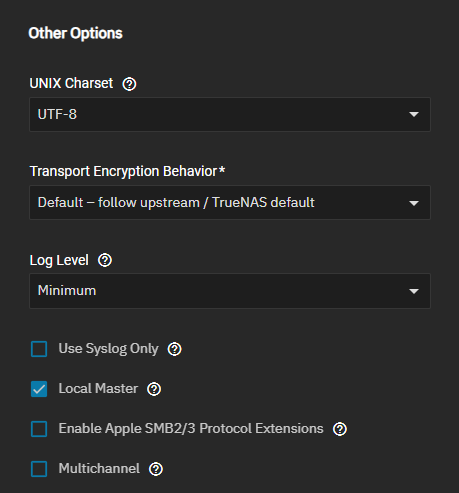
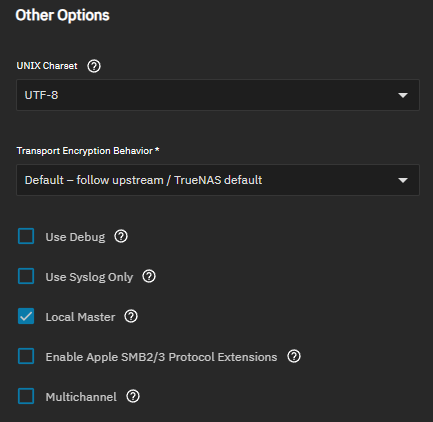
PD-2442 / 26.04 / Pd 2442 smb share purpose apple m e master (#4345)
* Update _index.md

* Create Apple-M-E.md

* Update SMBSharesScreens.md

* Update SMBServicesScreen.md

* Create AppleMENameManglingWarning.md

* Update TimeMachineMultiprotocol.md

* Update _index.md

* Update Apple-M-E.md

* Update SMBSharesScreens.md

* Update Apple-M-E.md

* Update SMBServicesScreen.md

* Update SMBServiceAdvanced1.png

* Update SMBServiceAdvanced2.png

* Create SMBServiceAppleExtensions.png

* Update Apple-M-E.md

* Update AppleMENameManglingWarning.md

* Update Apple-M-E.md

* Create AddSMBMacOSMediaAdvancedOptions.png

* Create AddSMBMacOSMediaBasic.png

* Update Apple-M-E.md

* Update SMBSharesScreens.md

* Create MacOSEnableExt.png

* apply suggestions from review

---------

(cherry picked from commit 1a8b3d3f5e862d301d834984fe008c7f5e685d04)

diff --git a/content/SCALEUIReference/Shares/SMBSharesScreens.md b/content/SCALEUIReference/Shares/SMBSharesScreens.md
@@ -87,7 +87,9 @@ It opens the [**Create Dataset**](#create-dataset) dialog.
 
 **Save** creates the share (or saves an existing one) and adds it to the **Windows (SMB) Shares** widget and the **SMB** table on the **SMB** screen.
 
-**Enable Now** shows on both the Add SMB and Edit SMB screens after selecting the **Time Machine Share** option in **Purpose** if the **Enable SMB2/3 Protocol** option is not already enabled on the **Advanced Options** of the [**SMB** service screen]({{< ref "SMBServicesScreen.md" >}}).
+**Enable Now** appears on both the Add SMB and Edit SMB screens after selecting the **Time Machine Share** option in **Purpose** if the **Enable SMB2/3 Protocol** option is not already enabled in the **Advanced Options** section of the [**SMB** service screen]({{< ref "SMBServicesScreen.md" >}}).
+
+**Enable Now** also appears on both the Add SMB and Edit SMB screens after selecting the **MacOS Media Share** option in **Purpose** if the **Enable Apple SMB2/3 Protocol Extensions** option is not already enabled in the **Advanced Options** section of the [**SMB** service screen]({{< ref "SMBServicesScreen.md" >}}). When this requirement is not met, an inline requirement error message appears below the **Purpose** field stating: *This parameter requires Apple SMB2/3 protocol extension support to be enabled in SMB service.* Click **Enable Now** to enable the required setting. The service updates automatically.
 
 ### Basic Settings
 
@@ -103,7 +105,7 @@ The **Basic Options** settings show by default on the **Add** and **Edit SMB** s
 | **Path** | Specifies the mount path for the share. It includes a blank field and a file browser field directly below it. The blank field allows text entry of a share mount path or allows Truenas to populate it with the path to the dataset selected in the file browser field. The file browser allows selecting the mount path to the share dataset on the local file system that TrueNAS exports over the SMB protocol. The <span class="material-icons">arrow_right</span> icon to the left of <svg xmlns="http://www.w3.org/2000/svg" width="1em" height="1em" viewBox="0 0 24 24"><path fill="currentColor" d="M5 21L3 9h18l-2 12zm5-6h4q.425 0 .713-.288T15 14t-.288-.712T14 13h-4q-.425 0-.712.288T9 14t.288.713T10 15M6 8q-.425 0-.712-.288T5 7t.288-.712T6 6h12q.425 0 .713.288T19 7t-.288.713T18 8zm2-3q-.425 0-.712-.288T7 4t.288-.712T8 3h8q.425 0 .713.288T17 4t-.288.713T16 5z"/></svg> expands the dataset directory tree. Root datasets do not show and cannot be selected for shares unless the share existed prior to upgrading to 25.10 or later releases. |
 | **Create Dataset** | Creates a dataset for a share while configuring the share. Inactive until the parent dataset is selected. It opens the [**Create Dataset**](#create-dataset) dialog, where you enter a name for a new dataset. The dataset name becomes the SMB share name. **Create** adds the dataset and populates **Name** field on the **Add SMB** screen. |
 | **Name** | Sets the name for the share. This text entry field accepts manual entry or copy/paste of a name for the share that does not exceed 80 characters. A name must not exceed 80 characters because of how the SMB protocol uses the name. A name cannot have invalid characters as specified in Microsoft documentation MS-FSCC section 2.1.6. <br>**Name** is automatically populated with the name of the dataset when you use **Create Dataset**. If not supplied, the share name becomes the last component of the path. This forms part of the full share path name when SMB clients perform and SMB tree connect. <br>If changing the name, follow the naming conventions for [files and directories](https://learn.microsoft.com/en-us/windows/win32/fileio/naming-a-file#naming-conventions) or [share names](https://learn.microsoft.com/en-us/openspecs/windows_protocols/ms-fscc/dc9978d7-6299-4c5a-a22d-a039cdc716ea). |
-| **Purpose** | Sets the share type to one selected on the dropdown list. Options are: <br><li>**Default Share** -  <br><li>**Time Machine Share** - <br><li>**Multi-Protocol Share** - The SMB share is configured for multi-protocol (SMB and NFS) access. Set this if the path is shared through NFS, FTP, or used by containers or apps. Note: This setting can reduce SMB share performance because it turns off some SMB features for safer interoperability with external processes.<br><li>**Time Locked Share** - The SMB share makes files read-only through the SMB protocol after the set grace period ends. <br>**WARNINGS**: This setting does not work if the path is accessed locally or if another SMB share without the **Time Locked Share** purpose uses the same path.<br>This setting might not meet regulatory requirements for write-once storage.<br><li>**Private Datasets Share** - This server uses the specified dataset_naming_schema in options to make a new ZFS dataset when the client connects. The server uses this dataset as the share path during the SMB session.<br><li>**External Share** - The SMB share is a DFS proxy to a share hosted on an external SMB server.</li> The selected option applies predetermined settings and changes the settings shown in [**Other Options**](#other-options-settings) when showing advanced options. |
+| **Purpose** | Sets the share type to one selected on the dropdown list. Options are: <br><li>**Default Share** - The SMB share uses standard configuration with default settings suitable for general-purpose file sharing. This is the recommended option when you do not need specialized share functionality. <br><li>**Time Machine Share** - The SMB share is optimized for Apple Time Machine backups. This option configures the share to serve as a backup destination for macOS devices. It requires SMB2/3 protocol support enabled in the SMB service configuration. <br><li>**MacOS Media Share** - Available in TrueNAS 25.10.1 and later. The SMB share is optimized for Apple media and entertainment workflows (Final Cut Pro, Logic Pro, Motion, Compressor). This option requires Apple SMB2/3 protocol extensions enabled in the SMB service configuration and forcibly enables Apple name mangling for proper media file handling. **Warning**: Name mangling can cause unexpected behavior for existing data written without this feature enabled. See [Setting Up Apple M&E SMB Shares]({{< ref "Apple-M-E.md" >}}) for details.<br><li>**Multi-Protocol Share** - The SMB share is configured for multi-protocol (SMB and NFS) access. Set this if the path is shared through NFS, FTP, or used by containers or apps. Note: This setting can reduce SMB share performance because it turns off some SMB features for safer interoperability with external processes.<br><li>**Time Locked Share** - The SMB share makes files read-only through the SMB protocol after the set grace period ends. <br>**WARNINGS**: This setting does not work if the path is accessed locally or if another SMB share without the **Time Locked Share** purpose uses the same path.<br>This setting might not meet regulatory requirements for write-once storage.<br><li>**Private Datasets Share** - The server creates a new ZFS dataset for each user when the client connects, using the specified dataset naming schema in options. The server uses this dataset as the share path during the SMB session. This provides isolated storage spaces for individual users.<br><li>**External Share** - The SMB share is a DFS proxy to a share hosted on an external SMB server. Use this option to redirect users to shares on other servers.</li> The selected option applies predetermined settings and changes the settings shown in [**Other Options**](#other-options-settings) when showing advanced options. |
 | **Remote Path** | Sets the path to a remote server and share. Each server entry must include a full domain name or IP address and the share name. Separate the server and share name with the `\` characters. Example: *192.168.0.200\SHARE*. This text entry field accepts copy/paste of a path to the external server and share. Shows when **Purpose** is set to **External Share**. |
 | **Description** | A text-entry field for a brief description or notes about how this share is used. The description entered shows in the **Description** column on the **Windows (SMB) Shares** widget on the **Shares** dashboard and the **SMB** table on the **SMB** screen. |
 | **Enabled** | A toggle that shows the status of the share and allows enabling or disabling the share. This does not enable or disable the SMB service. **Enabled** is the default setting. |
@@ -136,7 +138,7 @@ This behavior is enabled by default and matches FreeBSD behavior.
 | Setting | Description |
 |---------|-------------|
 | **Export Read-Only** | Prohibits writes to the share when enabled. |
-| **Browsable to Network Clients** | Determines whether this share name is included when browsing shares when enabled. This is enabled by default. Private dataset shares (the replacement for home shares) are only visible to the owner, regardless of this setting. |
+| **Browsable to Network Clients** | Determines whether this share name is included when browsing shares. Enabled by default. Private dataset shares (the replacement for home shares) are only visible to the owner, regardless of this setting. |
 | **Access Based Share Enumeration** | Restricts share visibility to users with read or write access to the share. This setting applies to datasets with a POSIX ACL type. For datasets with NFSv4 ACL type, access-based enumeration is automatically enabled and does not allow disabling. See the [smb.conf](https://www.samba.org/samba/docs/current/man-html/smb.conf.5.html) manual page. |
 {{< /truetable >}}
 
@@ -209,6 +211,19 @@ When **Purpose** is set to **Private Dataset Share**, the following settings sho
 | **Use Apple-style Character Encoding** | Implements the default hashing algorithm for NTFS illegal characters that Samba uses. Enabling this option translates NTFS illegal characters to the Unicode private range. When **Purpose** is set to the **Time Machine Share** or **External Share** options, this setting does not show. |
 | **Dataset Naming Schema**  | Sets TrueNAS to require the naming schema used when **Auto Dataset Creation** is enabled. If a schema is not set, the server uses the username if it is not joined to Active Directory. If the server is joined to Active Directory, it uses the domain/username. Only shows when **Purpose** is set to the **Private Dataset Share** option. |
 | **Auto Quota** | Sets the specified ZFS quota in gibibytes (GiB) on new datasets. If the value is zero, TrueNAS disables automatic quotas for the share. Only shows when **Purpose** is set to the **Private Dataset Share** option. |
+{{< /truetable >}}
+{{< /tab >}}
+{{< tab "MacOS Media Share" >}}
+When **Purpose** is set to **MacOS Media Share**, the following settings show in **Other Options**.
+
+{{< trueimage src="/images/SCALE/Shares/AddSMBAdvancedSettingsMacOSMediaShare.png" alt="Other Options - MacOS Media Share" id="Other Options - MacOS Media Share" >}}
+
+{{< include file="/static/includes/MacOSMediaShareCompatibility.md" >}}
+
+{{< truetable >}}
+| Setting | Description |
+|---------|-------------|
+| **Use Apple-style Character Encoding** | Automatically enabled and non-editable for MacOS Media Share. This implements Apple-style character encoding for NTFS illegal characters, which is required for proper operation of Apple media and entertainment applications. This setting cannot be changed for this share purpose because it is essential for compatibility with Final Cut Pro, Logic Pro, and other professional media tools. |
 {{< /truetable >}}
 {{< /tab >}}
 {{< /tabs >}}

diff --git a/content/SCALETutorials/Shares/SMB/Apple-M-E.md b/content/SCALETutorials/Shares/SMB/Apple-M-E.md
@@ -1,0 +1,190 @@
+---
+title: "Setting Up Apple Media and Entertainment SMB Shares"
+description: "Provides instructions for adding an SMB share optimized for Apple media and entertainment workflows including Final Cut Pro and Logic Pro."
+weight: 27
+aliases:
+tags:
+- smb
+- apple
+- shares
+- media
+---
+
+{{< include file="/static/includes/RootLevelDatasetShareWarning.md" >}}
+
+{{< include file="/static/includes/MacOSMediaShareCompatibility.md" >}}
+
+## About Apple Media and Entertainment Shares
+
+{{< hint type=note >}}
+The **MacOS Media Share** purpose is available in TrueNAS 25.10.1 and later.
+{{< /hint >}}
+
+TrueNAS provides the **MacOS Media Share** purpose for professional media production workflows.
+This share type automatically enables **Use Apple-style Character Encoding** to translate NTFS illegal characters for proper file handling in Apple media and entertainment applications like Final Cut Pro, Logic Pro, Motion, and Compressor.
+
+Apple-style character encoding ensures that special characters and metadata are preserved correctly, which is essential when working with media files that have complex naming conventions.
+
+## Prerequisites
+
+Before setting up a **MacOS Media Share**:
+
+* [Create user accounts]({{< ref "ManageUsers" >}}) for media users who access the share.
+   Go to **Credentials > Local Users** and click **Add**.
+   Ensure **Samba Authentication** is selected for each user.
+
+* Prepare a dataset for the share (or you can create one during share creation).
+   For best performance with large media files, consider:
+  * Enabling compression (LZ4 is recommended for media files).
+  * Setting appropriate record size (128K or larger for video files).
+  * Configuring adequate space quotas.
+
+* Turn on **Enable Apple SMB2/3 Protocol Extensions** for the SMB service (instructions below).
+
+## Setting Up a MacOS Media Share
+
+To set up a macOS media share, complete the following steps in order:
+
+1. [Enable Apple SMB2/3 Protocol Extensions](#enable-apple-smb23-protocol-extensions)
+2. [Create the Share and Dataset](#create-the-share-and-dataset)
+3. [Configure Advanced Options](#configure-advanced-options) (optional)
+4. [Configure Dataset Permissions](#configure-dataset-permissions)
+5. [Start the SMB Service and Mount the Share](#start-the-smb-service-and-mount-the-share)
+6. [Connect from Mac Client](#connect-from-mac-client)
+
+### Enable Apple SMB2/3 Protocol Extensions
+
+Enable this service setting before creating the share.
+
+1. Go to **Shares** and click <span class="iconify" data-icon="mdi:dots-vertical"></span> on the **Windows (SMB) Shares** widget header.
+
+2. Select **Config Service** to open the **SMB Service** screen.
+
+   Alternatively, go to **System > Services**, locate **SMB**, and click the <i class="material-icons" aria-hidden="true" title="Configure">edit</i> configure button.
+
+3. Click **Advanced Settings** to expand advanced options.
+
+4. Select **Enable Apple SMB2/3 Protocol Extensions**.
+
+   {{< trueimage src="/images/SCALE/SystemSettings/SMBServiceAppleExtensions.png" alt="Enable Apple SMB2/3 Extensions" id="Enable Apple SMB2/3 Extensions" >}}
+
+5. Click **Save**.
+
+6. If the SMB service is already running, restart it for the changes to take effect.
+
+### Create the Share and Dataset
+
+You can either create the dataset first using the **Datasets** screen and then add the share, or create both together.
+This tutorial uses the **Add SMB** screen to create both the dataset and share at the same time.
+
+1. Go to **Shares** and click **Add** on the **Windows (SMB) Shares** widget.
+
+2. In the **Path** field, browse to the parent dataset where you want to create the share dataset.
+
+   {{< include file="/static/includes/FileExplorerFolderIcons.md" >}}
+
+3. Click **Create Dataset**.
+
+4. Enter a name for the dataset (e.g., *AppleMediaShare* or *FCPProjects*) and click **Create**.
+
+   The dataset name populates the **Name** field and becomes the share name.
+
+   {{< trueimage src="/images/SCALE/Shares/AddSMBMacOSMediaBasic.png" alt="Add MacOS Media Share - Basic Options" id="Add MacOS Media Share - Basic Options" >}}
+
+5. Select **MacOS Media Share** from the **Purpose** dropdown.
+
+6. (Optional) Enter a description such as *Final Cut Pro project storage* to identify the share's purpose.
+
+7. Ensure **Enabled** is selected to activate the share when the SMB service is running.
+
+8. If Apple SMB2/3 Protocol Extensions are not enabled, a requirement error appears below the **Purpose** field.
+
+   {{< trueimage src="/images/SCALE/Shares/MacOSEnableExt.png" alt="MacOS Media Share Extension Required" id="MacOS Media Share Extension Required" >}}
+
+   Click **Enable Now** to enable the required setting in the SMB service configuration. Wait for the service to update.
+   When complete, TrueNAS displays a success message confirming Apple SMB2/3 protocol extension support is enabled.
+
+### Configure Advanced Options
+
+While creating a basic **MacOS Media Share** requires no additional configuration, you can customize access and logging settings.
+
+1. Click **Advanced Options** to expand additional settings.
+
+2. Configure **Access** settings as needed:
+   * **Export Read-Only**: Leave unselected to allow media file editing.
+   * **Browsable to Network Clients**: Enabled by default (recommended).
+   * **Access Based Share Enumeration**: Select to enable if needed for your access control requirements.
+
+   {{< trueimage src="/images/SCALE/Shares/AddSMBMacOSMediaAdvancedOptions.png" alt="MacOS Media Share - Advanced Options" id="MacOS Media Share - Advanced Options" >}}
+
+3. Optionally enable **Audit Logging**:
+   * Select **Enable Logging** to track share access.
+   * Configure **Watch List** and **Ignore List** as needed for monitoring specific users or groups.
+
+4. Note that **Use Apple-style Character Encoding** is automatically enabled under **Other Options** and cannot be disabled.
+   This setting is enforced because Apple character encoding is required for proper operation of Apple media and entertainment applications.
+
+5. Click **Save** to create the share.
+
+### Configure Dataset Permissions
+
+After creating the share, configure dataset permissions to grant access to media users.
+
+1. On the **Shares** screen, locate the new share in the **Windows (SMB) Shares** widget.
+
+2. Click <span class="iconify" data-icon="mdi:dots-vertical"></span> and select **Edit Filesystem ACL**.
+
+3. Configure ACL entries for users or groups who need access:
+   * For individual users: Add ACL entries with appropriate permissions (FULL for editors, READ for reviewers).
+   * For groups: Create a group like *media_users* and add users, then add a group ACL entry.
+
+4. Click **Save Access Control List**.
+
+See [Managing SMB Shares]({{< ref "ManageSMBShares.md" >}}) for detailed information on configuring ACL permissions.
+
+### Start the SMB Service and Mount the Share
+
+If the SMB service is not running, start it from the **Windows (SMB) Shares** widget:
+
+1. Click <span class="iconify" data-icon="mdi:dots-vertical"></span> on the widget header.
+2. Select **Turn On Service**.
+
+### Connect from Mac Client
+
+On the Mac client, connect to the share:
+
+1. Open **Finder**.
+2. Select **Go > Connect to Server** (or press Cmd+K).
+3. Enter the SMB address: {{< cli >}}smb://*your-truenas-ip*/*share-name*{{< /cli >}}.
+4. Authenticate with a user account that has access to the share.
+
+The share is now available for use with Final Cut Pro, Logic Pro, and other Apple media and entertainment applications.
+
+## Testing and Verification
+
+After mounting the share, verify proper operation:
+
+* File Creation: Create test files from Final Cut Pro or Logic Pro to verify proper file handling.
+
+* Character Handling: Test filenames with special characters to confirm Apple character encoding is working correctly.
+
+* Performance: Copy large media files to verify adequate transfer speeds for your workflow.
+
+* Permissions: Test access with different user accounts to verify ACL configuration.
+
+## Migrating Existing Media Libraries
+
+{{< hint type=warning title="Migration Considerations" >}}
+If you are migrating an existing media library from a standard SMB share to a **MacOS Media Share**, be aware that enabling Apple character encoding might affect existing files:
+
+* Files created without Apple character encoding might display differently or have access issues.
+* Existing project files might need to be re-indexed by media applications.
+* Test thoroughly in a non-production environment before migrating production data.
+
+Recommended Migration Approach:
+1. Create a new **MacOS Media Share**.
+2. Copy a subset of files for testing.
+3. Verify all media applications can properly access and edit files.
+   After verifying access, migrate remaining data.
+4. Update media application libraries and project files to point to the new location.
+{{< /hint >}}

diff --git a/content/SCALEUIReference/SystemSettings/Services/SMBServicesScreen.md b/content/SCALEUIReference/SystemSettings/Services/SMBServicesScreen.md
@@ -43,10 +43,10 @@ Click **Save** or **Cancel** to close the configuration screen and return to the
 |---------|-------------|
 | **UNIX Charset** | Select the character set to use internally from the dropdown list of options. **UTF-8** is standard for most systems as it supports all characters in all languages. |
 | **Transport Encryption Behavior** | Select the option for the level of transport encryption to implement. Options and behaviors:<br><li>**Default - follow upstream/TrueNAS default** <br><li>**Negotiate - only encrypt transport if explicitly requested by the SMB client** <br><li>**Desired - encrypt transport if supported by client during session negotiation** <br><li>**Required - always encrypt transport (rejecting access if client does not support encryption - incompatible with SMB1 server `enable_smb1`)** </li>the TrueNAS and Samba default behavior allows SMB clients to negotiate different encryption levels for SMB shares. When set to **Default**, there is no technical limitation preventing an SMB client from negotiating an encrypted session if it is required. **Default** enables negotiating encryption but does not turn on data encryption globally per share. For more information on SMB1 and SMB2 session or per-share encryption, see [Samba Server SMB Encrypt(s)](https://www.samba.org/samba/docs/current/man-html/smb.conf.5.html#SERVERSMBENCRYPT). For more information on using Windows client-side SMB signing, see [Windows SMB Signing Policies](https://learn.microsoft.com/en-us/troubleshoot/windows-server/networking/overview-server-message-block-signing#policy-locations-for-smb-signing). |
-| **Log Level** | Record SMB service messages up to the specified log level from the dropdown list. Options are **None**, **Minimum**, **Normal**, **full** and **Debug**. By default, TrueNAS logs error and warning-level messages. We do not recommend using a log level above **Minimum** for production servers. |
+| **Use Debug** | Select to log more detailed information about SMB. By default, TrueNAS logs error and warning-level messages. We do not recommend enabling debug logging for production servers as it can generate large log files and impact performance. |
 | **Use Syslog Only** | Select to log authentication failures in <file>/var/log/messages</file> instead of the default <file>/var/log/samba4/log.smbd</file>. |
 | **Local Master** | Selected by default and determines if the system participates in a browser election. Leave cleared when the network contains an Active Directory or LDAP server or when Vista or Windows 7 machines are present. |
-| **Enable Apple SMB2/3 Protocol Extensions** | Select to allow MacOS to use these [protocol extensions](https://support.apple.com/en-us/HT210803) to improve the performance and behavioral characteristics of SMB shares. TrueNAS requires Apple SMB2/3 protocol extensions for Time Machine support. |
+| **Enable Apple SMB2/3 Protocol Extensions** | Select to allow MacOS to use these [protocol extensions](https://support.apple.com/en-us/HT210803) to improve the performance and behavioral characteristics of SMB shares. TrueNAS requires Apple SMB2/3 protocol extensions for Time Machine support and **MacOS Media Share** (Apple media and entertainment workflows). This setting must be enabled before creating shares with the **Time Machine Share** or **MacOS Media Share** purpose options. |
 | **Multichannel** | SMB multichannel allows servers to use multiple network connections simultaneously by combining the bandwidth of several network interface cards (NICs) for better performance. SMB multichannel does not function if you combine NICs into a LAGG. |
 {{< /truetable >}}
 
@@ -59,5 +59,5 @@ Click **Save** or **Cancel** to close the configuration screen and return to the
 | **Guest Account** | Select the account for guest access from the dropdown list. The default is **nobody**. The selected account must have permission for the shared pool or dataset. To adjust permissions, edit the dataset Access Control List (ACL), add a new entry for the chosen guest account, and configure the permissions in that entry. If you delete the selected **Guest Account**, the field resets to **nobody**. |
 | **File Mask** | Overrides default **0664** file creation mask, which creates files with read and write access for everybody. |
 | **Directory Mask** | Overrides default directory creation mask of **0775**, which grants everyone directory read, write, and execute access. |
-| **Bind IP Addresses** | Select static IP addresses that SMB listens on for connections from the dropdown list. Leaving all unselected defaults to listening on all active interfaces. |
+| **Bind IP Addresses** | Click **Add** to specify static IP addresses that SMB listens on for connections. Select an IP address from the dropdown list for each entry. Leaving this empty defaults to listening on all active interfaces. |
 {{< /truetable >}}

diff --git a/static/includes/TimeMachineMultiprotocol.md b/static/includes/TimeMachineMultiprotocol.md
@@ -1,8 +1,7 @@
 &NewLine;
 
-{{< hint type=info title="Time Machine and Multiprotocol Shares Are Not Compatible" >}}
-To prevent unexpected failures in SMB shares, TrueNAS 25.04 and later automatically disables SMB2/3 lease support and AAPL extensions (typically used to configure Time Machine) globally when multiprotocol SMB/NFS shares are enabled.
+{{< hint type=info title="Time Machine and Multiprotocol Shares Compatibility" >}}
+**TrueNAS 25.04.0**: Time Machine shares are incompatible with multiprotocol (SMB/NFS) shares. TrueNAS automatically disables SMB2/3 lease support and AAPL extensions globally when multiprotocol shares are configured, preventing Time Machine functionality.
 
-This means that in TrueNAS 25.04 and later, multiprotocol shares are incompatible with Time Machine shares on the same system.
-To prevent service interruption, Time Machine users should make sure that no multiprotocol shares are configured on TrueNAS.
+**TrueNAS 25.04.1 and later**: This limitation is removed. Multiprotocol shares now use per-share oplock management instead of global oplock disabling, allowing Time Machine and **MacOS Media Share** shares to coexist with multiprotocol shares on the same system. SMB leases are permitted globally, with oplocks disabled only at the multiprotocol share level.
 {{< /hint >}}

diff --git a/content/SCALETutorials/Shares/SMB/_index.md b/content/SCALETutorials/Shares/SMB/_index.md
@@ -180,7 +180,11 @@ To create a basic Windows SMB share and a dataset, go to **Shares**, then click 
 
    Select **Time Machine Share** to create a Time Machine share. The SMB share is presented to Mac OS clients as a Time Machine target.
    See [Adding a Basic Time Machine SMB Share]({{< ref "SetUpBasicTimeMachineSMBShare.md" >}}) for more information on creating and using Time Machine shares.
-   
+
+   Select **MacOS Media Share** (available in TrueNAS 25.10.1 and later) to create a share optimized for Apple media and entertainment workflows.
+   The SMB share is configured with Apple-style character encoding and requires Apple SMB2/3 protocol extensions for compatibility with Final Cut Pro, Logic Pro, and other professional media applications.
+   See [Setting Up Apple M&E SMB Shares]({{< ref "Apple-M-E.md" >}}) for more information on creating shares for Apple media workflows.
+
    Select **External Share** to [create an external share](#setting-up-an-external-smb-share). Enter the full domain name or IP address and the share name as *192.168.0.200\SHARE* in **Remote Path**.
 
    Select **Time Locked Share** to create a share that makes files read-only after the grace period you specify expires.

diff --git a/static/includes/MacOSMediaShareCompatibility.md b/static/includes/MacOSMediaShareCompatibility.md
@@ -1,0 +1,9 @@
+&NewLine;
+
+{{< hint type=warning title="MacOS Media Share Compatibility" >}}
+The MacOS Media Share purpose enables **Use Apple-style Character Encoding**, which translates NTFS illegal characters to the Unicode private range. This ensures compatibility with Apple Media & Entertainment applications like Final Cut Pro and Logic Pro.
+
+Enabling this feature on shares with existing data might cause unexpected behavior for files that were written without Apple character encoding enabled. Test thoroughly before applying to production shares with existing content.
+
+This share purpose requires Apple SMB2/3 Protocol Extensions to be enabled globally in the SMB service configuration.
+{{< /hint >}}
